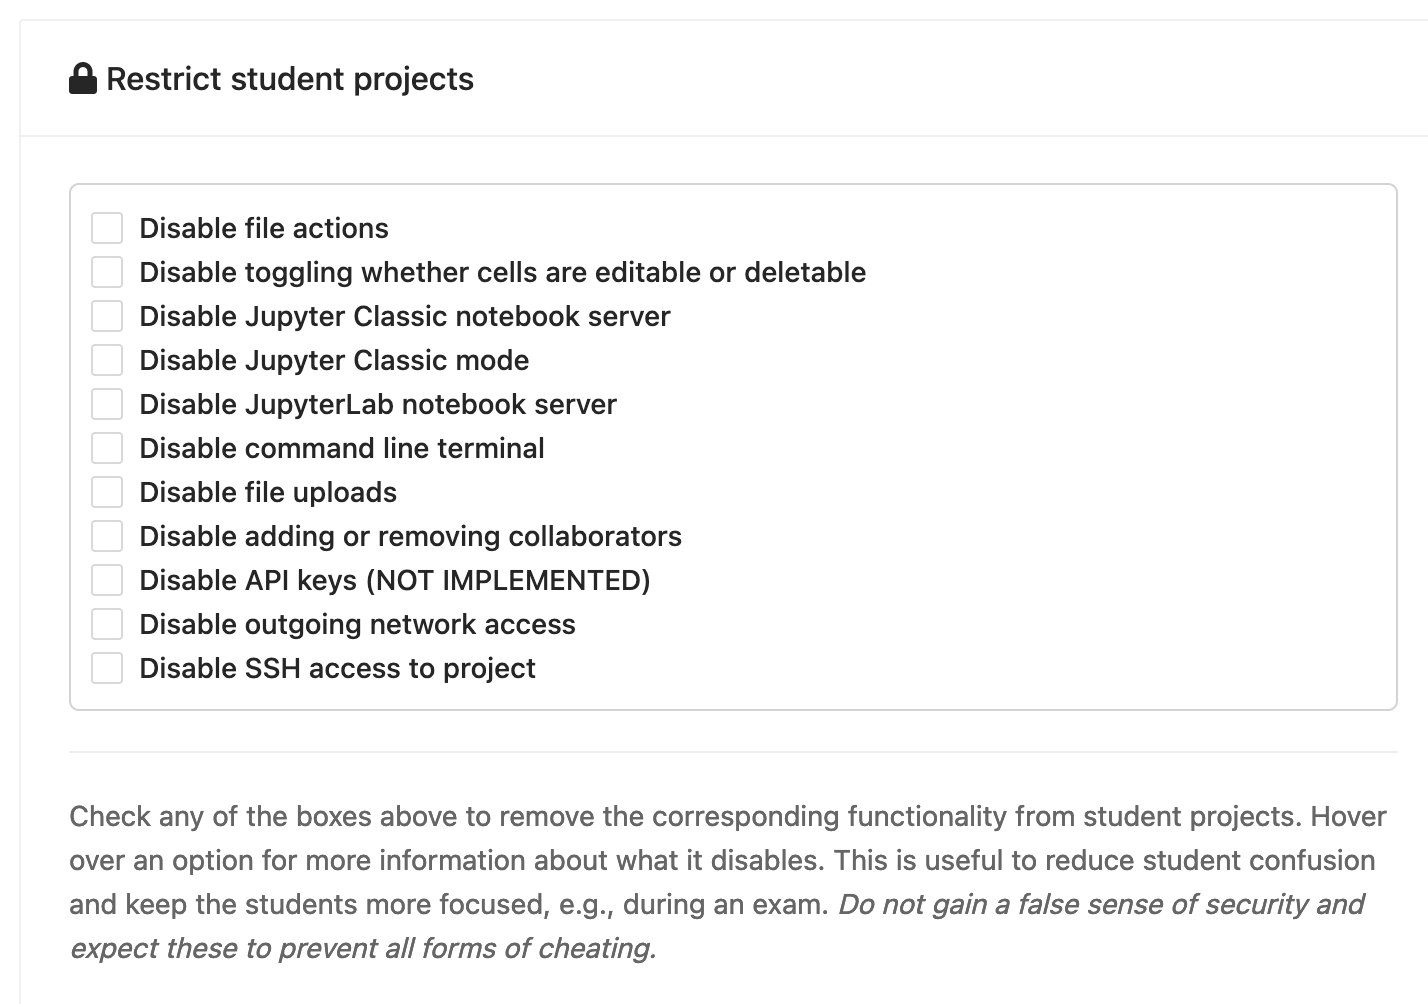
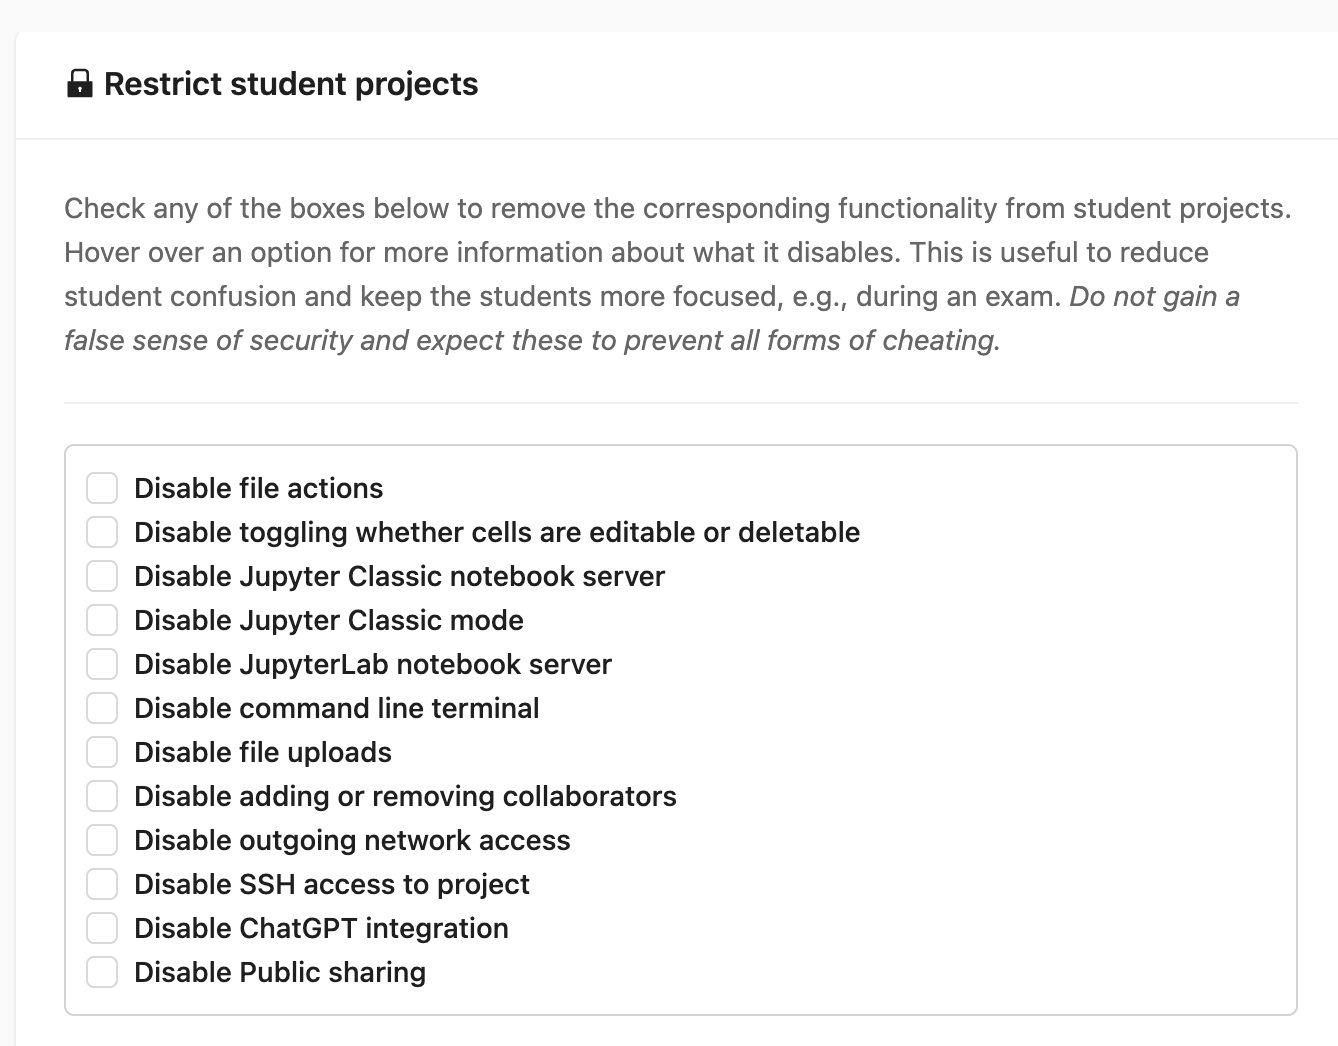
restrict chatgpt, sharing

Changed region(s): [[0.0306, 0.1853, 0.9806, 0.9572], [0.0306, 0.0618, 0.3677, 0.0926], [0.9499, 0.6793, 0.9806, 0.7102]]

diff --git a/source/teaching-create-course.rst b/source/teaching-create-course.rst
@@ -199,6 +199,8 @@ Because some CoCalc features may not be compatible with course content created b
 * **Disable API keys (NOT IMPLEMENTED).** Makes it so the HTTP API is blocked from accessing the student project. A student might use the API to get around various other restrictions.
 * **Disable outgoing network access.** Blocks all outgoing network connections from the student project.
 * **Disable SSH access to project.** Makes any attempt to ssh to the student project fail.
+* **Disable ChatGPT integration.** Remove all ChatGPT integrations from the student projects. This is a hint for honest students, since of course students can still use copy/paste to accomplish the same thing.
+* **Disable Public sharing.** Disable public sharing of files from the student projects. This is a hint for honest students, since of course students can still download files or even copy them to another project and share them. This does not change the share status of any files that are currently shared.
 
 ###############################
 Reconfigure Student Projects
